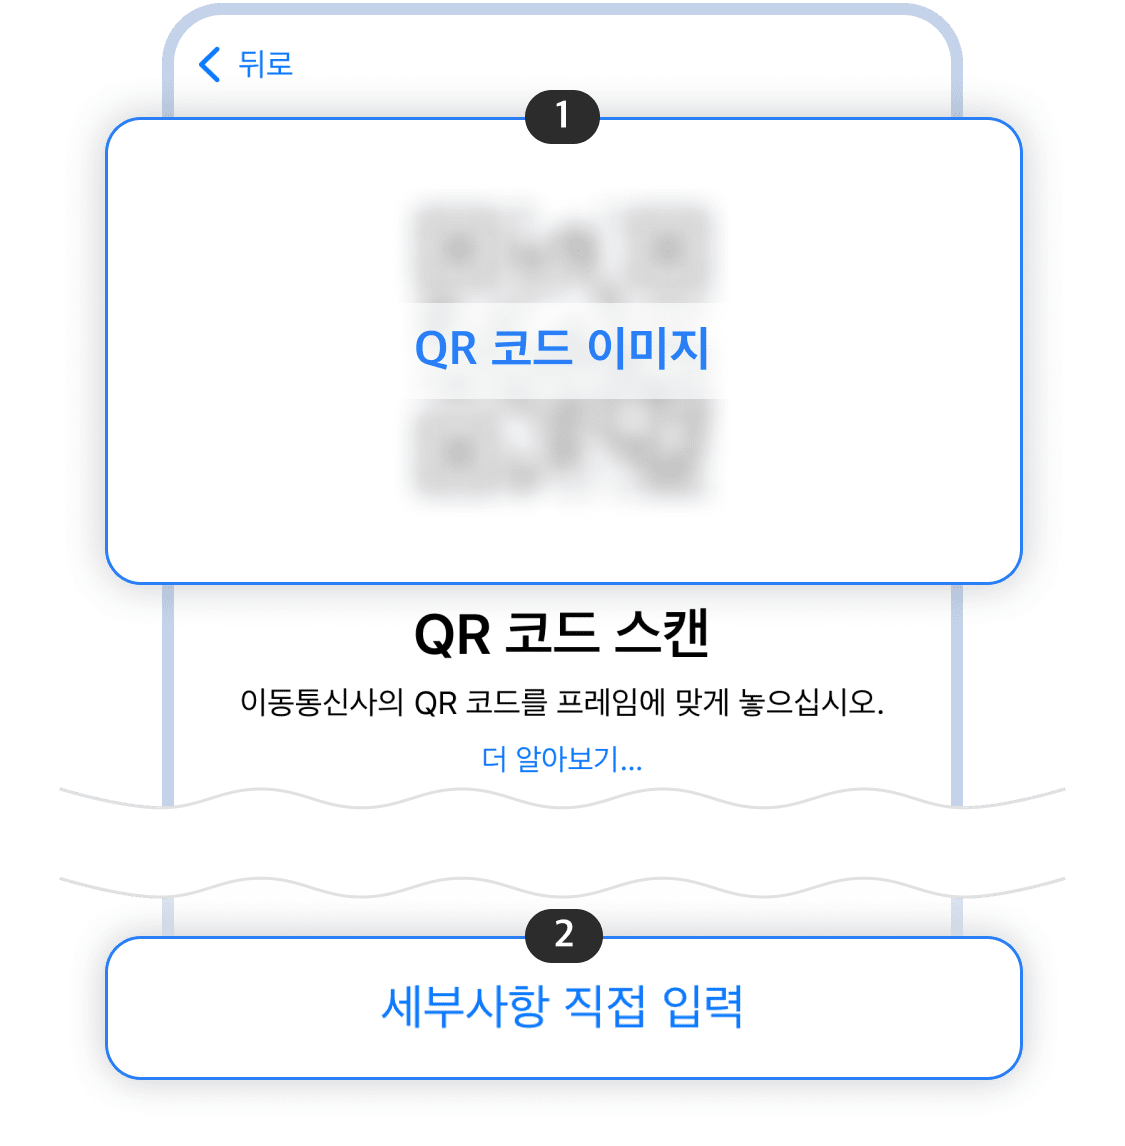
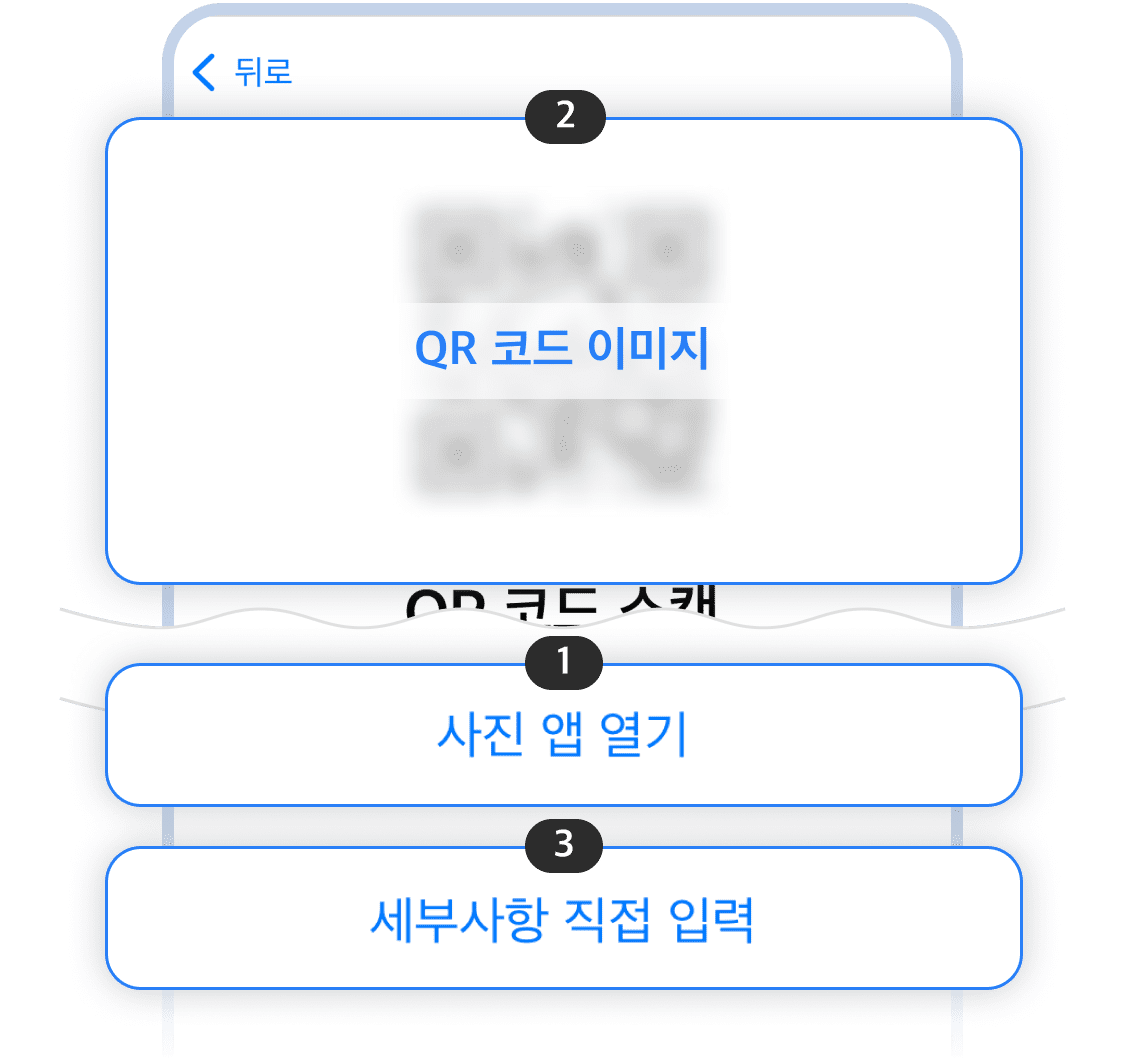
IOS 현지선택, 한국등록 3단계만 디자인 변경

diff --git a/screens/UserGuideScreen/model.tsx b/screens/UserGuideScreen/model.tsx
@@ -470,7 +470,7 @@ export const getGuideImages = (
             key: 'page3',
             title: renderText(`userGuide:stepsTitle2:ios`),
             step: 2,
-            tip: () => renderTipList('userGuide:tipPage3'),
+            tip: () => renderTipList('userGuide:tipPage3', 'num', false, 3),
           },
           {
             key: 'page4',
@@ -557,7 +557,7 @@ export const getGuideImages = (
             key: 'page3',
             title: renderText(`userGuide:stepsTitle2:ios`),
             step: 2,
-            tip: () => renderTipList('userGuide:tipPage3'),
+            tip: () => renderTipList('userGuide:tipPage3', 'num', false, 3),
           },
           {
             key: 'page4',
